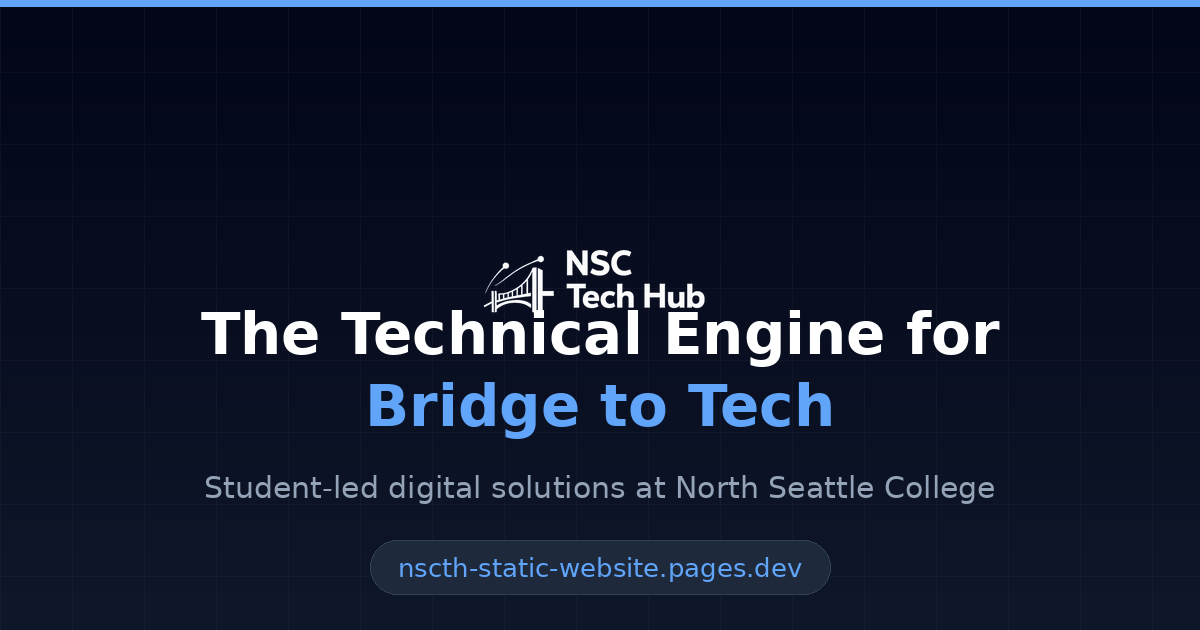
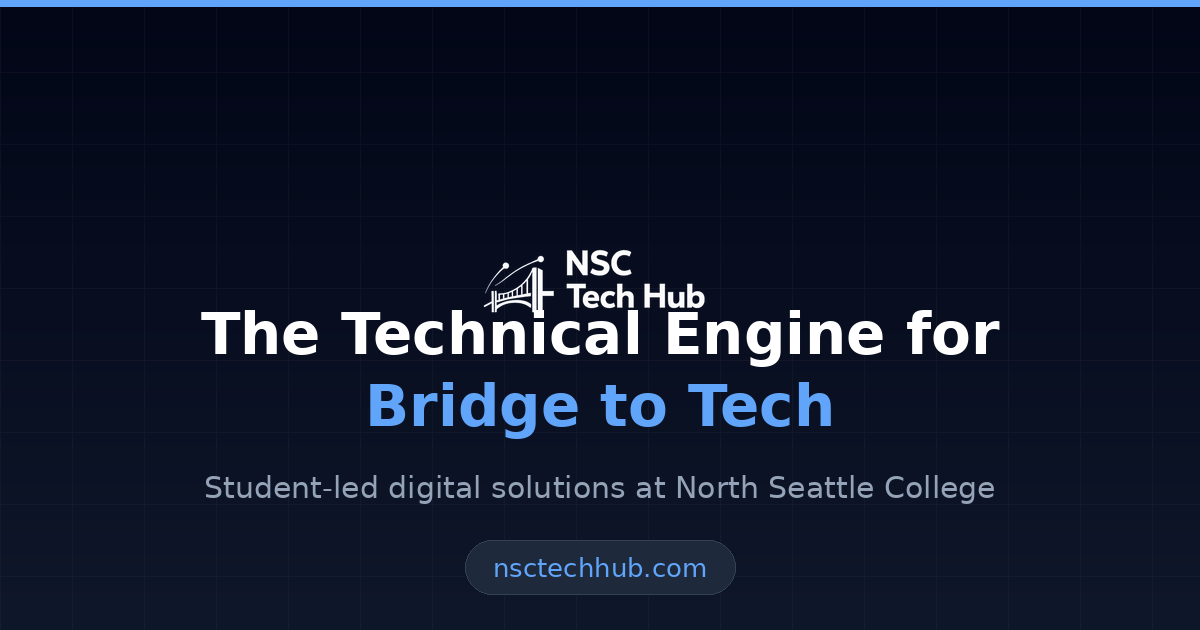
Address review: production domain, canonical link, @astrojs/sitemap
Per maintainer review on #71:
1. astro.config.mjs site -> https://nsctechhub.com (production domain) +
   @astrojs/sitemap integration; all SEO metadata + sitemap URLs now use it.
2. BaseLayout.astro adds <link rel="canonical"> (and og:url) via
   new URL(Astro.url.pathname, Astro.site).
3. Replaced manually-maintained public/sitemap.xml with @astrojs/sitemap
   (generates dist/sitemap-index.xml + sitemap-0.xml at build); robots.txt
   now points at https://nsctechhub.com/sitemap-index.xml.
4. Regenerated public/og-image.png with nsctechhub.com in the URL pill;
   render-og-image.py now resolves fonts portably (./fonts -> ~/.fonts ->
   system dirs), no machine-specific paths.

Verified: npm run build succeeds, sitemap-index.xml + canonical + og:url all
emit https://nsctechhub.com.

Changed region(s): [[0.3392, 0.8746, 0.6783, 0.9349]]

diff --git a/scripts/render-og-image.py b/scripts/render-og-image.py
@@ -4,6 +4,9 @@
 Reproducible generator for public/og-image.png. Matches the site's brand:
 dark slate-950 background, blue-400 accent, the NSC Tech Hub wordmark logo,
 headline, and tagline. Run from the repo root:  python3 scripts/render-og-image.py
+
+Portable: no machine-specific paths. Fonts resolve via ./fonts -> ~/.fonts ->
+system font dirs. Output is written relative to this script.
 """
 import os
 from PIL import Image, ImageDraw, ImageFont
@@ -19,8 +22,18 @@ ACCENT = (96, 165, 250)    # blue-400
 TEXT = (255, 255, 255)
 MUTED = (148, 163, 184)    # slate-400
 
-FONT_BOLD = "/usr/share/fonts/truetype/dejavu/DejaVuSans-Bold.ttf"
-FONT_REG = "/usr/share/fonts/truetype/dejavu/DejaVuSans.ttf"
+
+def _font_path(name):
+    """Resolve a font file portably: ./fonts -> ~/.fonts -> system dirs."""
+    candidates = [
+        os.path.join(os.path.dirname(__file__), "..", "fonts", name),
+        os.path.join(os.path.expanduser("~"), ".fonts", name),
+        os.path.join("/usr/share/fonts/truetype/dejavu", name),
+    ]
+    for c in candidates:
+        if os.path.isfile(c):
+            return c
+    return candidates[-1]
 
 
 def lerp(a, b, t):
@@ -60,7 +73,7 @@ def main():
     base.paste(logo, (logo_x, logo_y), logo)
 
     # Headline (two lines, second line accented)
-    title_font = ImageFont.truetype(FONT_BOLD, 58)
+    title_font = ImageFont.truetype(_font_path("DejaVuSans-Bold.ttf"), 58)
     line1 = "The Technical Engine for"
     line2 = "Bridge to Tech"
     l1w = d.textlength(line1, font=title_font)
@@ -69,14 +82,14 @@ def main():
     d.text(((W - l2w) / 2, 372), line2, font=title_font, fill=ACCENT)
 
     # Tagline
-    tag_font = ImageFont.truetype(FONT_REG, 30)
+    tag_font = ImageFont.truetype(_font_path("DejaVuSans.ttf"), 30)
     tag = "Student-led digital solutions at North Seattle College"
     tw = d.textlength(tag, font=tag_font)
     d.text(((W - tw) / 2, 470), tag, font=tag_font, fill=MUTED)
 
     # URL pill
-    url_font = ImageFont.truetype(FONT_REG, 26)
-    url = "nscth-static-website.pages.dev"
+    url_font = ImageFont.truetype(_font_path("DejaVuSans.ttf"), 26)
+    url = "nsctechhub.com"
     uw = d.textlength(url, font=url_font)
     pad_x, pad_y = 28, 14
     pill_w = uw + pad_x * 2
